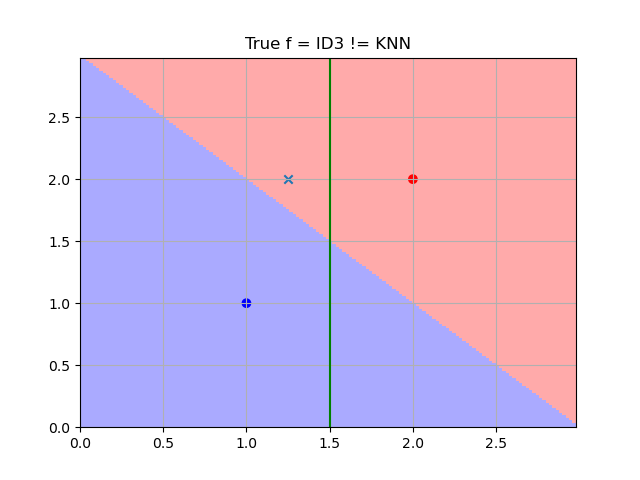
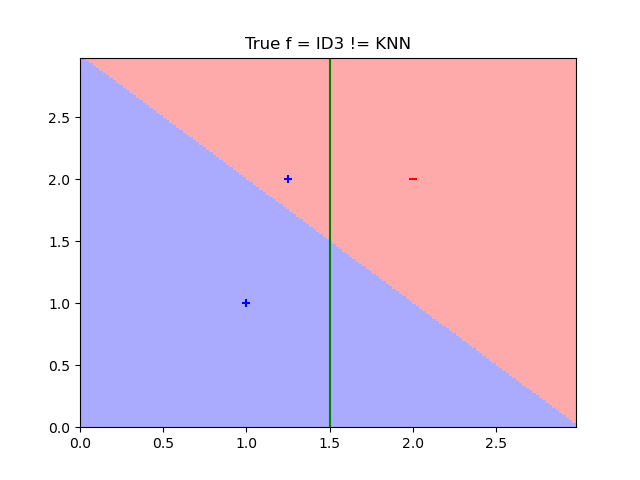
hw3 3

diff --git a/hw3/AI_HW3_CODE/ID3/vornoy.py b/hw3/AI_HW3_CODE/ID3/vornoy.py
@@ -35,12 +35,13 @@ for weights in ['uniform', 'distance']:
     plt.pcolormesh(xx, yy, Z, cmap=cmap_light)
 
     # Plot also the training points
-    plt.scatter(X[:, 0], X[:, 1], c=y, cmap=cmap_bold)
     plt.xlim(xx.min(), xx.max())
     plt.ylim(yy.min(), yy.max())
-    plt.vlines(1.5,0,3, colors='g')
-    plt.scatter([1.4], [2], cmap=cmap_bold, marker='x')
+    plt.vlines(1.5,0,3, colors='k', linestyles='dashed')
+    plt.scatter([X[0, 0]], [X[0, 1]], color='r', marker='_')
+    plt.scatter([X[1, 0]], [X[1, 1]], color='b', marker='+')
+    plt.vlines(1.5, 0, 3, colors='g')
+    plt.scatter([1.4], [2], color='b', marker='+')
     plt.title("True f == 1NN == ID3")
-    plt.grid()
 
 plt.show()
